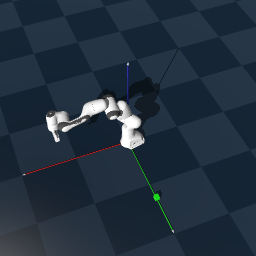
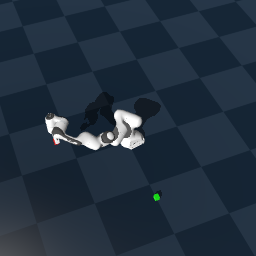
(test update and debug) test_tool_genesis and debug.

diff --git a/tests/test_tool_genesis.py b/tests/test_tool_genesis.py
@@ -14,7 +14,7 @@ from repairs_components.geometry.fasteners import (
 from repairs_components.logic.tools.screwdriver import Screwdriver
 from repairs_components.logic.tools.tool import attach_tool_to_arm, detach_tool_from_arm
 from repairs_components.processing.geom_utils import get_connector_pos
-from tests.global_test_config import init_gs
+from tests.global_test_config import init_gs, base_data_dir
 
 
 @pytest.fixture(scope="module")
@@ -30,9 +30,7 @@ def scene_franka_and_two_cubes(init_gs):
         show_viewer=False,
         profiling_options=gs.options.ProfilingOptions(show_FPS=False),
     )
-    plane = scene.add_entity(
-        gs.morphs.Plane(),
-    )
+    plane = scene.add_entity(gs.morphs.Plane())
     # "tool cube" and "fastener cube" as stubs for real geometry. Functionally the same.
     tool_cube: RigidEntity = scene.add_entity(
         gs.morphs.Box(
@@ -146,12 +144,12 @@ def test_attach_tool_to_arm(scene_franka_and_two_cubes, fingers_dof):
     print("end_effector.get_quat(): ", end_effector.get_quat(0))
 
     # tested func.
-    attach_tool_to_arm(scene, tool_cube, franka, screwdriver, torch.tensor([0]))
+    attach_tool_to_arm(scene, tool_cube, end_effector, screwdriver, torch.tensor([0]))
     rgb, _, _, _ = camera.render()
     Image.fromarray(rgb).save("cube_tool.png")
 
     assert torch.isclose(
-        tool_cube.get_pos(),
+        tool_cube.get_pos(0),
         torch.tensor([[0.65, 0.0, 0.5 - screwdriver.tool_grip_position()[2]]]),
         atol=0.05,
     ).all(), (
@@ -198,7 +196,7 @@ def test_detach_tool_from_arm(scene_franka_and_two_cubes, fingers_dof):
     print("end_effector.get_quat(): ", end_effector.get_quat())
 
     # attach tool to arm
-    attach_tool_to_arm(scene, tool_cube, franka, screwdriver, torch.tensor([0]))
+    attach_tool_to_arm(scene, tool_cube, end_effector, screwdriver, torch.tensor([0]))
     rgb, _, _, _ = camera.render()
     Image.fromarray(rgb).save("cube_tool.png")
 
@@ -230,7 +228,7 @@ def test_detach_tool_from_arm(scene_franka_and_two_cubes, fingers_dof):
 
     # detach tool from arm
     detach_tool_from_arm(
-        scene, tool_cube, franka, entities, [screwdriver], torch.tensor([0])
+        scene, tool_cube, end_effector, entities, [screwdriver], torch.tensor([0])
     )
     for i in range(100):
         scene.step()
@@ -240,6 +238,9 @@ def test_detach_tool_from_arm(scene_franka_and_two_cubes, fingers_dof):
     ).all(), f"Expected the tool_cube to fall, got Z pos {tool_cube.get_pos()[2]}"
 
 
+@pytest.mark.xfail(
+    "Assertions are incorrect until get_weld_constraints is available in Genesis API."
+)
 def test_attach_and_detach_tool_to_arm_with_fastener(
     scene_franka_and_two_cubes, fingers_dof
 ):
@@ -266,7 +267,7 @@ def test_attach_and_detach_tool_to_arm_with_fastener(
     print("end_effector.get_quat(): ", end_effector.get_quat())
 
     # attach tool to arm
-    attach_tool_to_arm(scene, tool_cube, franka, screwdriver, torch.tensor([0]))
+    attach_tool_to_arm(scene, tool_cube, end_effector, screwdriver, torch.tensor([0]))
     rgb, _, _, _ = camera.render()
     Image.fromarray(rgb).save("cube_tool.png")
 
@@ -353,11 +354,12 @@ def test_attach_and_detach_tool_to_arm_with_fastener(
 
     # detach tool from arm
     detach_tool_from_arm(
-        scene, tool_cube, franka, entities, [screwdriver], torch.tensor([0])
+        scene, tool_cube, end_effector, entities, [screwdriver], torch.tensor([0])
     )
     assert not screwdriver.has_picked_up_fastener
     assert screwdriver.picked_up_fastener_name is None
     assert screwdriver.picked_up_fastener_tip_position is None
+    assert screwdriver.picked_up_fastener_quat is None
 
     for i in range(200):
         scene.step()

diff --git a/repairs_components/logic/tools/tool.py b/repairs_components/logic/tools/tool.py
@@ -68,8 +68,8 @@ def attach_tool_to_arm(
     tool_grip_pos = get_connector_pos(
         arm_hand_pos.squeeze(1),  # [b,3]
         arm_hand_quat.squeeze(1),  # [b,4]
-        -tool.tool_grip_position().unsqueeze(0),
-    )  # minus because from arm to tool.
+        tool.tool_grip_position().unsqueeze(0),
+    )  # use +grip so world pos = hand_pos - R*grip (matches expected downward offset)
 
     # FIXME: the tool is not repositioned to the entity, for whichever reason.
 
